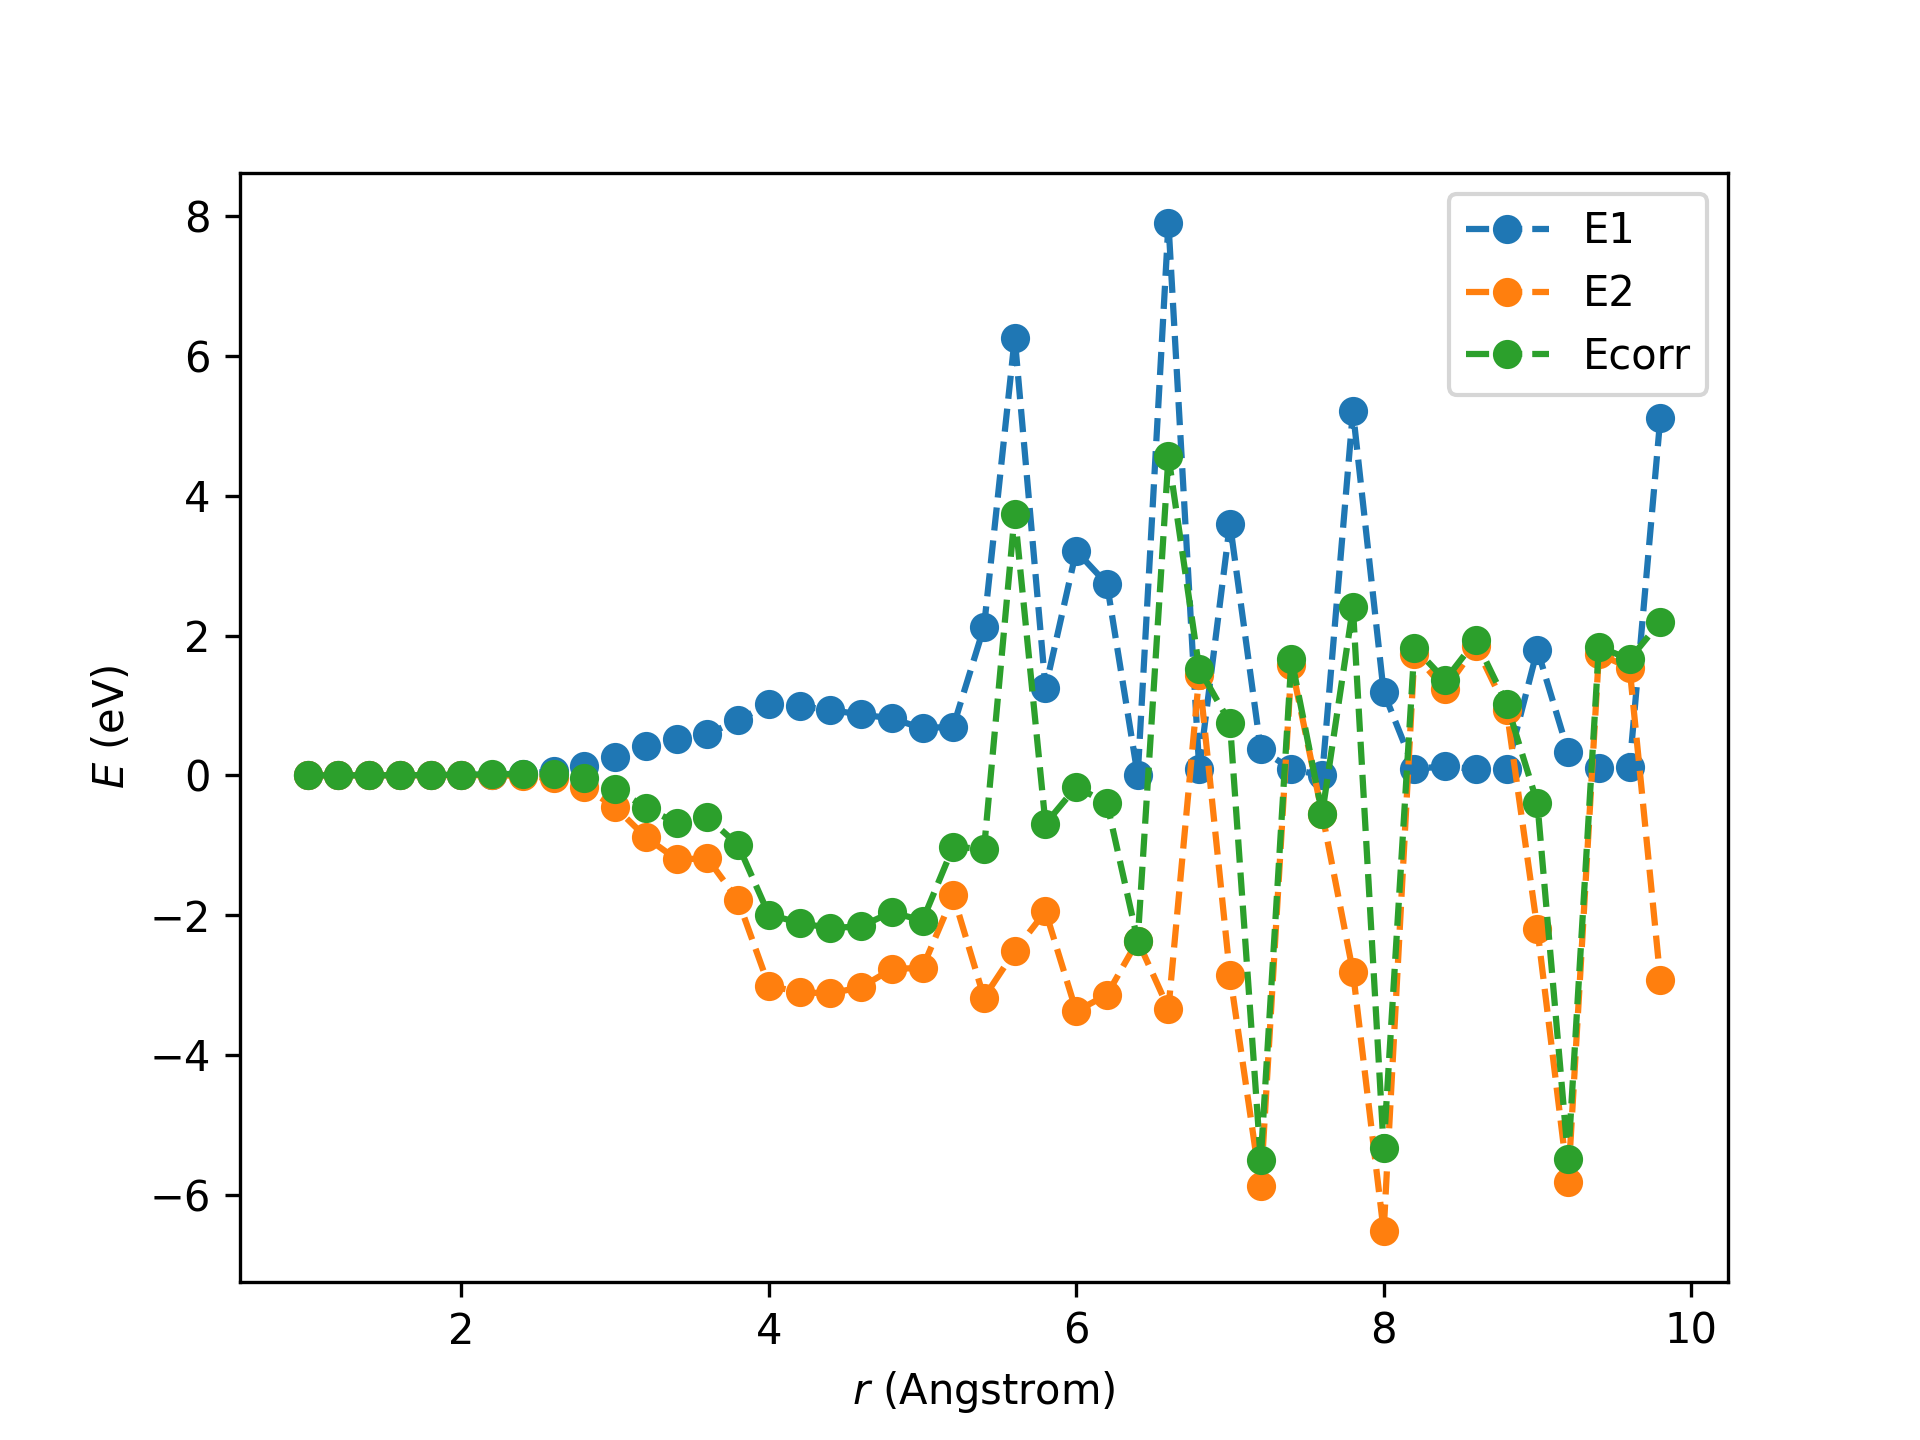
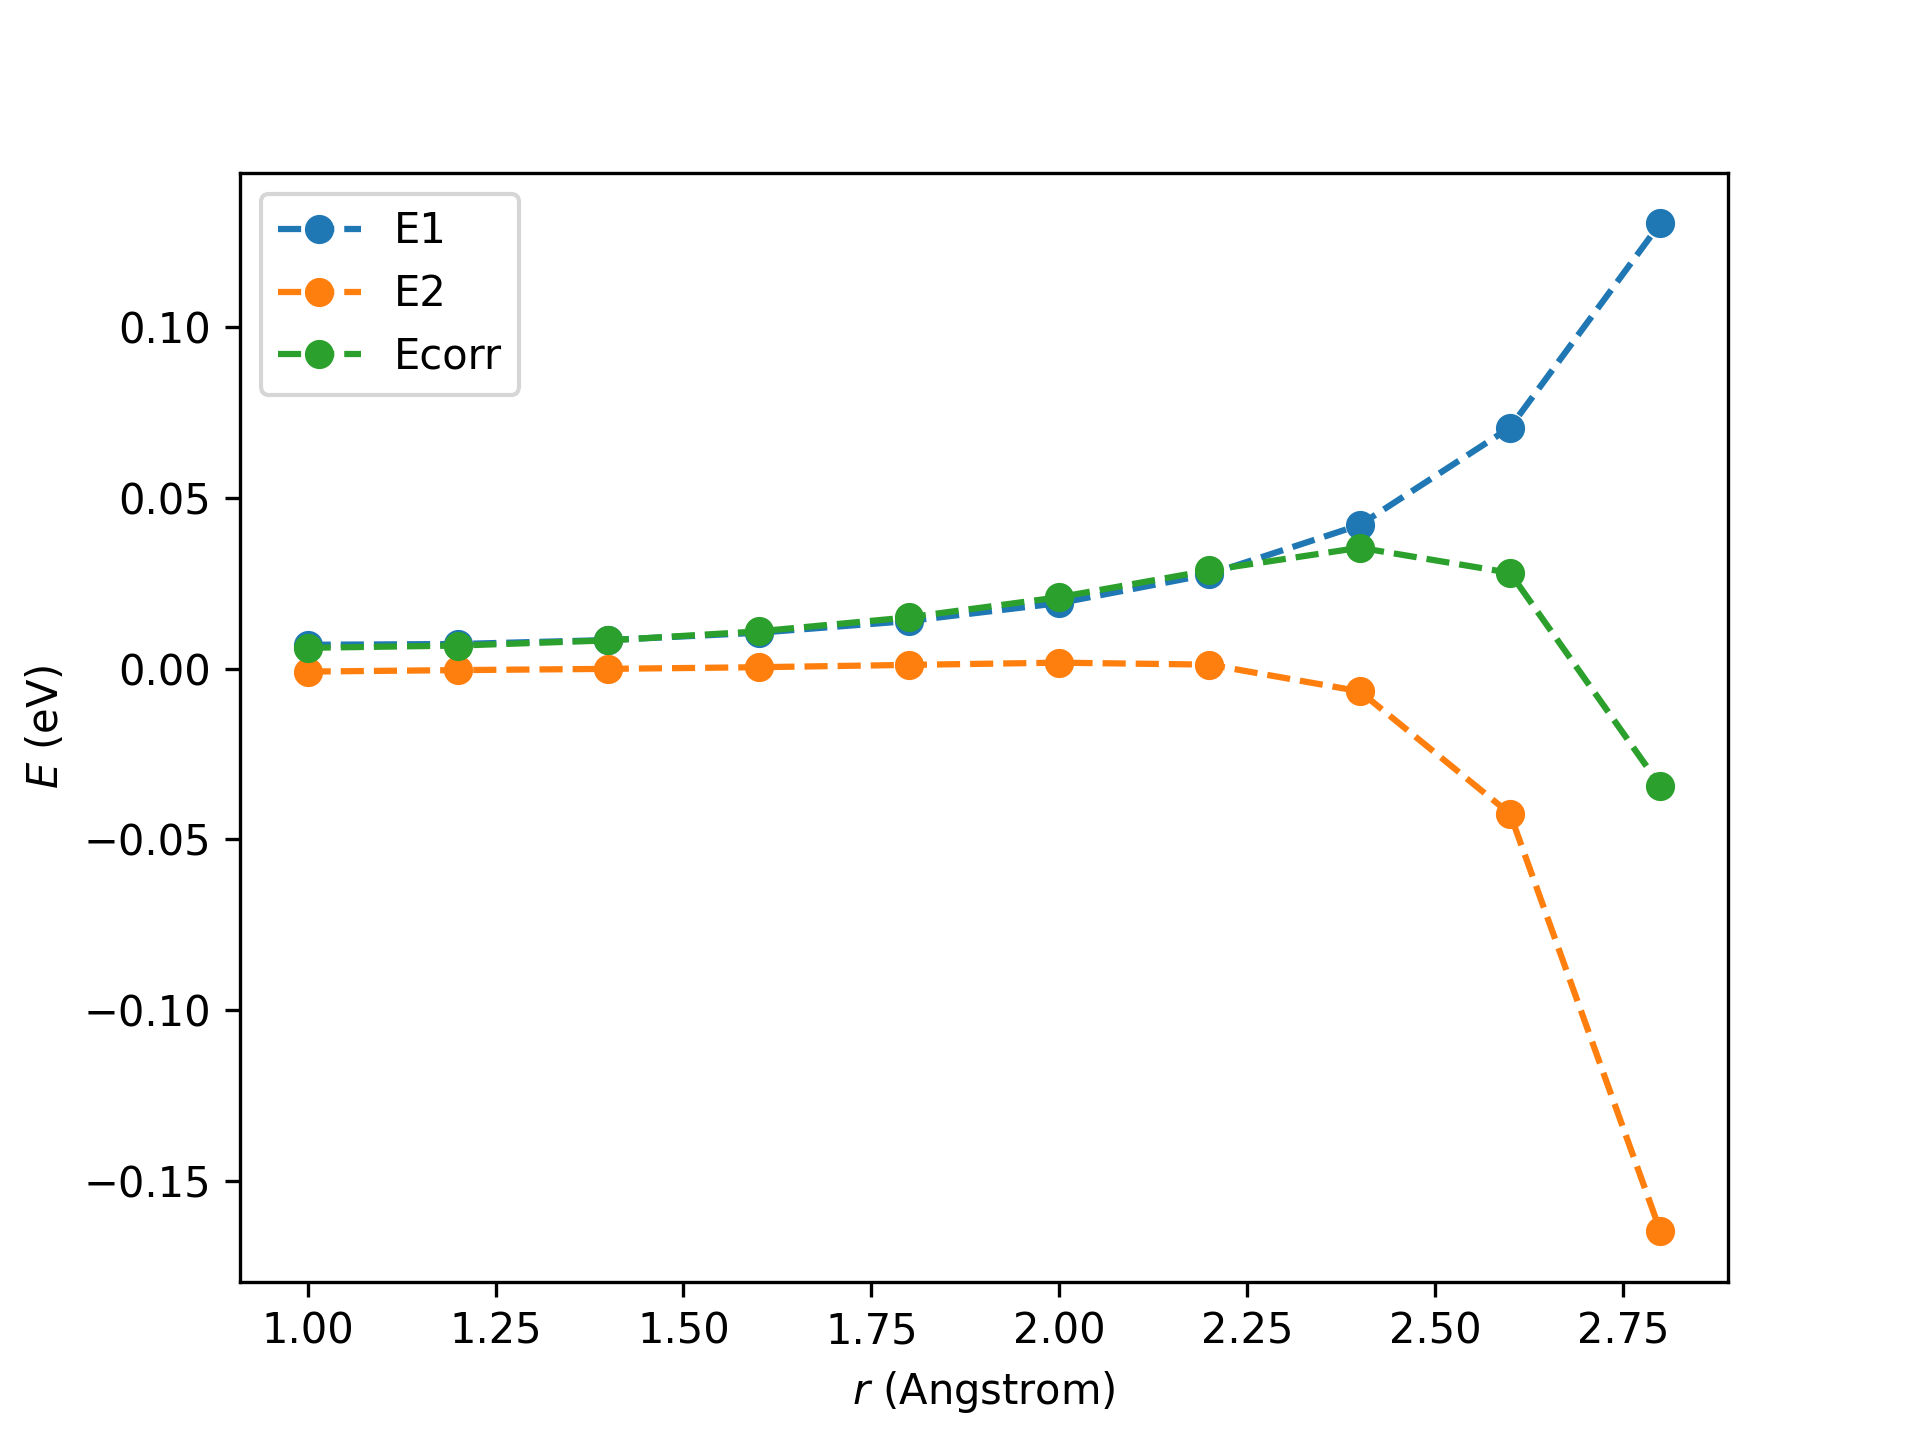
Debug and clean up

diff --git a/src/greens_function_restricted.py b/src/greens_function_restricted.py
@@ -66,32 +66,29 @@ class GreensFunctionRestricted:
         # Basic variables of the system
         self.ansatz = ansatz
         self.hamiltonian = hamiltonian
-        self.molecule = hamiltonian.molecule
         self.spin = spin
 
         # The methods for each of gs, eh, and amp stages of the algorithm
-        if methods is None:
-            self.methods = {'gs': 'exact', 'eh': 'exact', 'amp': 'exact'}
-        else:
-            self.methods = methods
+        self.methods = {'gs': 'exact', 'eh': 'exact', 'amp': 'exact'}
+        if methods is not None:
+            self.methods.update(methods)
         assert self.methods['gs'] in ['exact', 'vqe']
         assert self.methods['eh'] in ['exact', 'qse', 'ssvqe']
-        assert self.methods['amp'] in ['exact', 'energy', 'tomography']
+        assert self.methods['amp'] in ['exact', 'energy', 'tomo']
 
         # The quantum instances
-        if q_instances is None:
-            self.q_instances = {'gs': get_quantum_instance('sv'),
-                                'eh': get_quantum_instance('sv'),
-                                'amp': get_quantum_instance('sv')}
-        else:
+        self.q_instances = {'gs': get_quantum_instance('sv'),
+                            'eh': get_quantum_instance('sv'),
+                            'amp': get_quantum_instance('sv')}
+        if q_instances is not None:
             if isinstance(q_instances, QuantumInstance):
                 self.q_instances = {'gs': q_instances,
                                     'eh': q_instances,
                                     'amp': q_instances}
             else:
-                self.q_instances = q_instances
+                self.q_instances.update(q_instances)
         # if self.methods['amp'] == 'tomography' and 'tomography' not in self.q_instances.keys():
-        self.q_instances['tomography'] = self.q_instances['amp']
+        self.q_instances['tomo'] = self.q_instances['amp']
 
         # Circuit construction variables
         self.recompiled = recompiled
@@ -115,22 +112,25 @@ class GreensFunctionRestricted:
             self.qiskit_op_spin = transform_4q_hamiltonian(self.qiskit_op, init_state=[0, 1]).reduce()
         elif self.spin == 'down': # e down h up
             self.qiskit_op_spin = transform_4q_hamiltonian(self.qiskit_op, init_state=[1, 0]).reduce()
+        # The following two attributes are temporary. Should remove them when done testing.
         self.qiskit_op_up = transform_4q_hamiltonian(self.qiskit_op, init_state=[0, 1]).reduce()
         self.qiskit_op_down = transform_4q_hamiltonian(self.qiskit_op, init_state=[1, 0]).reduce()
 
         # print('qiskit_op_gs\n', self.qiskit_op_gs)
         # print('qiskit_op_spin\n', self.qiskit_op_spin)
-        # Create the Pauli operator dictionaries for original, transformed and tapered 
-        # second quantized operators
+
+        # Create Pauli dictionaries for the original operators
         second_q_ops = SecondQuantizedOperators(4)
         self.pauli_op_dict = second_q_ops.get_op_dict_all()
 
+        # Create Pauli dictionaries for the transformed operators
         second_q_ops = SecondQuantizedOperators(4)
         second_q_ops.transform(partial(transform_4q_hamiltonian, init_state=[1, 1], tapered=False))
         self.pauli_op_dict_trans = second_q_ops.get_op_dict_all()
-        for key, (x_op, y_op) in self.pauli_op_dict_trans.items():
-            print(key, x_op.table.to_labels()[0], y_op.table.to_labels()[0])
+        #for key, (x_op, y_op) in self.pauli_op_dict_trans.items():
+        #    print(key, x_op.table.to_labels()[0], y_op.table.to_labels()[0])
 
+        # Create Pauli dictionaries for the transformed and tapered operators
         second_q_ops = SecondQuantizedOperators(4)
         second_q_ops.transform(partial(transform_4q_hamiltonian, init_state=[1, 1]))
         # self.pauli_op_dict_tapered = second_q_ops.get_op_dict(spin=spin)
@@ -138,16 +138,21 @@ class GreensFunctionRestricted:
 
     def _initialize_quantities(self) -> None:
         """Initializes physical quantity attributes."""
-        # Orbital energies
-        self.e_orb = np.diag(self.molecule.orbital_energies) * HARTREE_TO_EV
-        self.e_orb = self.e_orb[[1, 2]][:, [1, 2]] # XXX: Hardcoded
+        # Occupied and active orbital indices
+        self.occ_inds = self.hamiltonian.occ_inds
+        self.act_inds = self.hamiltonian.act_inds
 
-        # Number of orbitals and indices
-        self.n_orb = len(self.hamiltonian.act_inds)
-        self.n_occ = self.hamiltonian.molecule.n_electrons // 2 - len(self.hamiltonian.occ_inds)
+        # One-electron integrals and orbital energies
+        self.int1e = self.hamiltonian.molecule.one_body_integrals * HARTREE_TO_EV
+        self.int1e = self.int1e[self.act_inds][:, self.act_inds]
+        self.e_orb = np.diag(self.hamiltonian.molecule.orbital_energies) * HARTREE_TO_EV
+        self.e_orb = self.e_orb[self.act_inds][:, self.act_inds]
+
+        # Number of spatial orbitals and N+/-1 electron states
+        self.n_elec = self.hamiltonian.molecule.n_electrons
+        self.n_orb = len(self.act_inds)
+        self.n_occ = self.n_elec // 2 - len(self.occ_inds)
         self.n_vir = self.n_orb - self.n_occ
-        self.inds_occ = list(range(self.n_occ))
-        self.inds_vir = list(range(self.n_occ, self.n_orb))
         self.n_e = int(binom(2 * self.n_orb, 2 * self.n_occ + 1)) // 2
         self.n_h = int(binom(2 * self.n_orb, 2 * self.n_occ - 1)) // 2
 
@@ -156,9 +161,6 @@ class GreensFunctionRestricted:
         print(f"Number of virtual orbitals is {self.n_vir}")
         print(f"Number of (N+1)-electron states is {self.n_e}")
         print(f"Number of (N-1)-electron states is {self.n_h}")
-
-        self.h = np.zeros((self.n_orb, self.n_orb), dtype=complex)
-        self.h = self.molecule.one_body_integrals[[1, 2]][:, [1, 2]] # XXX: Hardcoded
 
         # `swap` is whether an additional swap gate is applied on top of the two CNOTs.
         # This part is hardcoded.
@@ -195,7 +197,7 @@ class GreensFunctionRestricted:
         self.energy_gs = None
         self.circuit_constructor = None
 
-        # Variables created in solving eh states
+        # Variables created in solving N+/-1 electron states
         self.eigenenergies_e = None
         self.eigenstates_e = None
         self.eigenenergies_h = None
@@ -224,7 +226,6 @@ class GreensFunctionRestricted:
                 self.qiskit_op_gs, ansatz_func=get_ansatz, 
                 init_params=(-5., 0., 0., 5.), q_instance=q_instance)
             self.energy_gs *= HARTREE_TO_EV
-            print(f'Ground state energy = {self.energy_gs:.3f} eV')
             print("===== Finish calculating the ground state using VQE =====")
 
             if save_params:
@@ -233,16 +234,16 @@ class GreensFunctionRestricted:
                     f.write(str(self.energy_gs))
                 save_circuit(self.ansatz.copy(), 'circuits/vqe_circuit')
 
+        print(f'Ground state energy = {self.energy_gs:.3f} eV')
+
         self.circuit_constructor = CircuitConstructor(
             self.ansatz, add_barriers=self.add_barriers, ccx_data=self.ccx_data)
 
         #if self.methods['amp'] == 'tomography':
-        #    self.rho_gs = state_tomography(self.ansatz, q_instance=self.q_instances['tomography'])
+        #    self.rho_gs = state_tomography(self.ansatz, q_instance=self.q_instances['tomo'])
 
     def compute_eh_states(self) -> None:
         """Calculates (N±1)-electron states of the Hamiltonian."""
-
-        q_instance = self.q_instances['eh']
         
         print("===== Start calculating (N+1)-electron states =====")
 
@@ -253,9 +254,10 @@ class GreensFunctionRestricted:
             self.eigenenergies_h, self.eigenstates_h = number_state_eigensolver(
                 self.qiskit_op_spin.to_matrix(), inds=self.inds_h.int_form)
 
-            # Transpose in order to index by the first index
+            # Transpose in order to index each eigenstate by the first index
             self.eigenstates_e = self.eigenstates_e.T
             self.eigenstates_h = self.eigenstates_h.T
+
         elif self.methods['eh'] == 'qse':
             def a_op(ind, spin, dag):
                 a_op_ = (self.pauli_op_dict[(ind, spin)][0] + 
@@ -267,31 +269,31 @@ class GreensFunctionRestricted:
 
             # XXX: The eigenstates are not right
             self.eigenenergies_e, self.eigenstates_e = quantum_subspace_expansion(
-                self.ansatz.copy(), self.qiskit_op, qse_ops_e, q_instance=self.q_instances['tomography'])
+                self.ansatz.copy(), self.qiskit_op, qse_ops_e, q_instance=self.q_instances['tomo'])
             self.eigenenergies_h, self.eigenstates_h = quantum_subspace_expansion(
-                self.ansatz.copy(), self.qiskit_op, qse_ops_h, q_instance=self.q_instances['tomography'])
+                self.ansatz.copy(), self.qiskit_op, qse_ops_h, q_instance=self.q_instances['tomo'])
 
         elif self.methods['eh'] == 'ssvqe':
             energy_min, circ_min = vqe_minimize(
                 self.qiskit_op_spin, ansatz_func=get_ansatz_e,
-                init_params=(0.,), q_instance=q_instance)
+                init_params=(0.,), q_instance=self.q_instances['eh'])
             m_energy_max, circ_max = vqe_minimize(
                 -self.qiskit_op_spin, ansatz_func=get_ansatz_e,
-                init_params=(0.,), q_instance=q_instance)
+                init_params=(0.,), q_instance=self.q_instances['eh'])
             self.eigenenergies_e = np.array([energy_min, -m_energy_max])
-            eigenstates_e = [state_tomography(circ_min, q_instance=self.q_instances['tomography']), 
-                             state_tomography(circ_max, q_instance=self.q_instances['tomography'])]
+            eigenstates_e = [state_tomography(circ_min, q_instance=self.q_instances['tomo']), 
+                             state_tomography(circ_max, q_instance=self.q_instances['tomo'])]
             self.eigenstates_e = [rho[self.inds_e.int_form][:, self.inds_e.int_form] for rho in eigenstates_e]
 
             energy_min, circ_min = vqe_minimize(
                 self.qiskit_op_spin, ansatz_func=get_ansatz_h,
-                init_params=(0.,), q_instance=q_instance)
+                init_params=(0.,), q_instance=self.q_instances['eh'])
             m_energy_max, circ_max = vqe_minimize(
                 -self.qiskit_op_spin, ansatz_func=get_ansatz_h,
-                init_params=(0.,), q_instance=q_instance)
+                init_params=(0.,), q_instance=self.q_instances['eh'])
             self.eigenenergies_h = np.array([energy_min, -m_energy_max])
-            eigenstates_h = [state_tomography(circ_min, q_instance=self.q_instances['tomography']),
-                             state_tomography(circ_max, q_instance=self.q_instances['tomography'])]
+            eigenstates_h = [state_tomography(circ_min, q_instance=self.q_instances['tomo']),
+                             state_tomography(circ_max, q_instance=self.q_instances['tomo'])]
             self.eigenstates_h = [rho[self.inds_h.int_form][:, self.inds_h.int_form] for rho in eigenstates_h]
 
             
@@ -348,8 +350,6 @@ class GreensFunctionRestricted:
                     circ_anc = circ.copy()
                     circ_anc.add_register(ClassicalRegister(1))
                     circ_anc.measure(0, 0)
-                    # XXX: Why is quantum_instance hardcoded here?
-                    # q_instance = QuantumInstance(Aer.get_backend('qasm_simulator'), shots=8000)
                     
                     result = q_instance.execute(circ_anc)
                     counts = {'0': 0, '1': 0}
@@ -370,8 +370,8 @@ class GreensFunctionRestricted:
                     B_e_mm = p_e * solve_energy_probabilities(self.eigenenergies_e, energy_e * HARTREE_TO_EV)
                     B_h_mm = p_h * solve_energy_probabilities(self.eigenenergies_h, energy_h * HARTREE_TO_EV)
                 
-                elif self.methods['amp'] == 'tomography':
-                    rho = state_tomography(circ, q_instance=self.q_instances['tomography'])
+                elif self.methods['amp'] == 'tomo':
+                    rho = state_tomography(circ, q_instance=self.q_instances['tomo'])
 
                     rho_e = rho[inds_e][:, inds_e]
                     rho_h = rho[inds_h][:, inds_h]
@@ -474,7 +474,7 @@ class GreensFunctionRestricted:
                             D_hm_mn = p_hm * solve_energy_probabilities(self.eigenenergies_h, energy_hm * HARTREE_TO_EV)
                                 
                             
-                        elif self.methods['amp'] == 'tomography':
+                        elif self.methods['amp'] == 'tomo':
                             rho = state_tomography(circ, q_instance=q_instance)
 
                             rho_ep = rho[inds_ep][:, inds_ep]
@@ -556,9 +556,7 @@ class GreensFunctionRestricted:
         self.rho_gf = np.sum(self.B_h, axis=2)
         return self.rho_gf
 
-    def get_greens_function(self,
-                                omega: Union[float, complex]
-                                ) -> np.ndarray:
+    def get_greens_function(self, omega: Union[float, complex]) -> np.ndarray:
         """Calculates the values of the Green's function at frequency omega.
 
         Args:
@@ -569,10 +567,8 @@ class GreensFunctionRestricted:
         """
         for m in range(self.n_orb):
             for n in range(self.n_orb):
-                self.G_e[m, n] = 2 * np.sum(
-                    self.B_e[m, n] / (omega + self.energy_gs - self.eigenenergies_e))
-                self.G_h[m, n] = 2 * np.sum(
-                    self.B_h[m, n] / (omega - self.energy_gs + self.eigenenergies_h))
+                self.G_e[m, n] = 2 * np.sum(self.B_e[m, n] / (omega + self.energy_gs - self.eigenenergies_e))
+                self.G_h[m, n] = 2 * np.sum(self.B_h[m, n] / (omega - self.energy_gs + self.eigenenergies_h))
         self.G = self.G_e + self.G_h
         return self.G
 
@@ -601,8 +597,7 @@ class GreensFunctionRestricted:
 
         G_HF = np.zeros((self.n_orb, self.n_orb), dtype=complex)
         for i in range(self.n_orb):
-            # print('!!! i + 1 =', i + 1)
-            G_HF[i, i] = 1 / (omega - self.molecule.orbital_energies[i + 1] * HARTREE_TO_EV)
+            G_HF[i, i] = 1 / (omega - self.e_orb[i, i])
 
         Sigma = np.linalg.pinv(G_HF) - np.linalg.pinv(self.G)
         return Sigma
@@ -632,8 +627,7 @@ class GreensFunctionRestricted:
         #    self.h[i] = tmp[::(-1) ** (i % 2)].reshape(self.n_orb, order='f')
         #self.h *= HARTREE_TO_EV
 
-        E1 = np.trace((self.h + self.e_orb) @
-                      (self.rho_gf - self.rho_hf)) / 2
+        E1 = np.trace((self.int1e + self.e_orb) @ (self.rho_gf - self.rho_hf)) / 2
 
         E2 = 0
         for i in range(self.n_h):

diff --git a/calculations/lih_3A/plot_E.py b/calculations/lih_3A/plot_E.py
@@ -2,14 +2,15 @@ import numpy as np
 import matplotlib.pyplot as plt
 
 #converters = {0: lambda s: complex(s.decode().replace('+-', '-'))}
-radii, E1_red_qasm = np.loadtxt('data/E1_red_sv.dat').T#, dtype=complex, converters=converters).T
-radii, E2_red_qasm = np.loadtxt('data/E2_red_sv.dat').T#, dtype=complex, converters=converters).T
+radii, E1_red_qasm = np.loadtxt('data/E1_red_sv1.dat').T#, dtype=complex, converters=converters).T
+radii, E2_red_qasm = np.loadtxt('data/E2_red_sv1.dat').T#, dtype=complex, converters=converters).T
 Ecorr_red_qasm = E1_red_qasm + E2_red_qasm
 
-#radii = radii[:-2]
-#E1_red_qasm = E1_red_qasm[:-2]
-#E2_red_qasm = E2_red_qasm[:-2]
-#Ecorr_red_qasm = Ecorr_red_qasm[:-2]
+ind = 10
+radii = radii[:-ind]
+E1_red_qasm = E1_red_qasm[:-ind]
+E2_red_qasm = E2_red_qasm[:-ind]
+Ecorr_red_qasm = Ecorr_red_qasm[:-ind]
 
 fig, ax = plt.subplots()
 ax.plot(radii, E1_red_qasm, marker='o', ls='--', label="E1")
@@ -18,4 +19,4 @@ ax.plot(radii, Ecorr_red_qasm, marker='o', ls='--', label='Ecorr')
 ax.set_xlabel('$r$ (Angstrom)')
 ax.set_ylabel('$E$ (eV)')
 ax.legend()
-fig.savefig('E_sv.png', dpi=300)
+fig.savefig('E_sv1.png', dpi=300)

diff --git a/src/hamiltonians.py b/src/hamiltonians.py
@@ -1,6 +1,6 @@
 """The """
 
-from typing import Union, Sequence, Optional
+from typing import Union, Sequence, List, Tuple, Optional
 
 import numpy as np
 
@@ -12,10 +12,12 @@ from openfermionpyscf import run_pyscf
 from openfermion.transforms import jordan_wigner, get_fermion_operator
 from openfermion.linalg import get_sparse_operator
 
+GeometryType = List[Tuple[str, Sequence[Union[int, float]]]]
+
 class MolecularHamiltonian:
     """A class to hold a molecular Hamiltonian."""
     def __init__(self,
-                 geometry: Union[Sequence],
+                 geometry: GeometryType,
                  basis: str,
                  multiplicity: int = 1,
                  charge: int = 0,
@@ -44,8 +46,7 @@ class MolecularHamiltonian:
         self.geometry = geometry
         self.basis = basis
         if name is None:
-            self.name = ''.join(
-                [geometry[i][0] for i in range(len(geometry))])
+            self.name = ''.join([geometry[i][0] for i in range(len(geometry))])
         else:
             self.name = name
 

diff --git a/calculations/lih_3A/test_gf_res.py b/calculations/lih_3A/test_gf_res.py
@@ -19,13 +19,13 @@ cache_write = False
 
 ansatz = build_2q_ansatz()
 hamiltonians = []
-radii = np.arange(1, 10, 0.2)
+radii = np.arange(1, 5, 0.2)
 for r in radii:
     hamiltonian = get_lih_hamiltonian(r)
     hamiltonians.append(hamiltonian)
 ccx_data = get_berkeley_ccx_data()
 
-methods = {'gs': 'vqe', 'eh': 'ssvqe', 'amp': 'tomography'}
+methods = {'gs': 'vqe', 'eh': 'ssvqe', 'amp': 'tomo'}
 q_instance_type = 'sv'
 q_instances = get_quantum_instance(q_instance_type)
 
